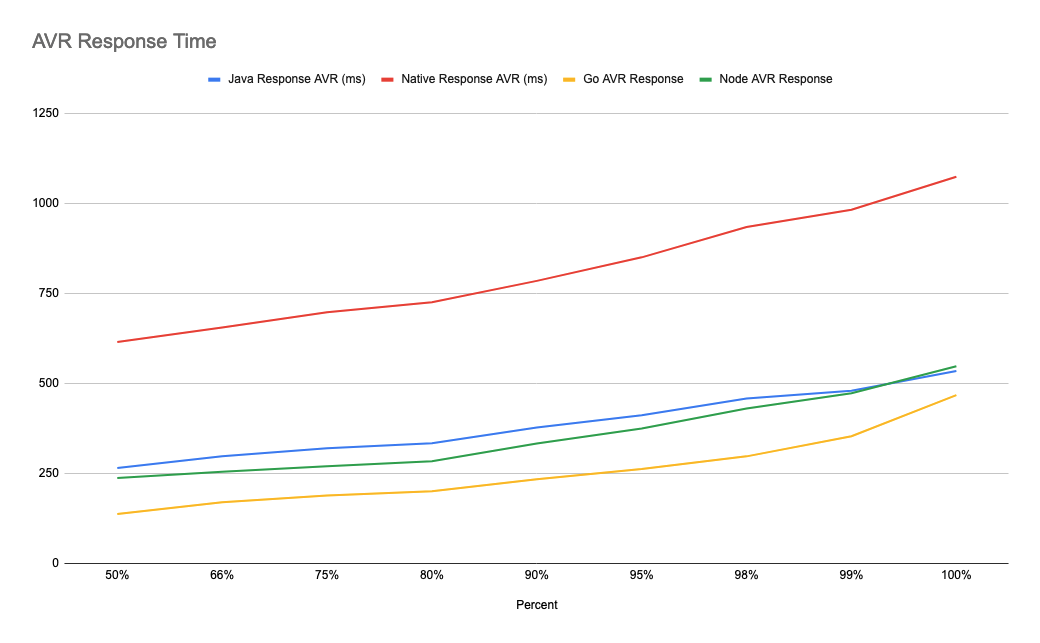
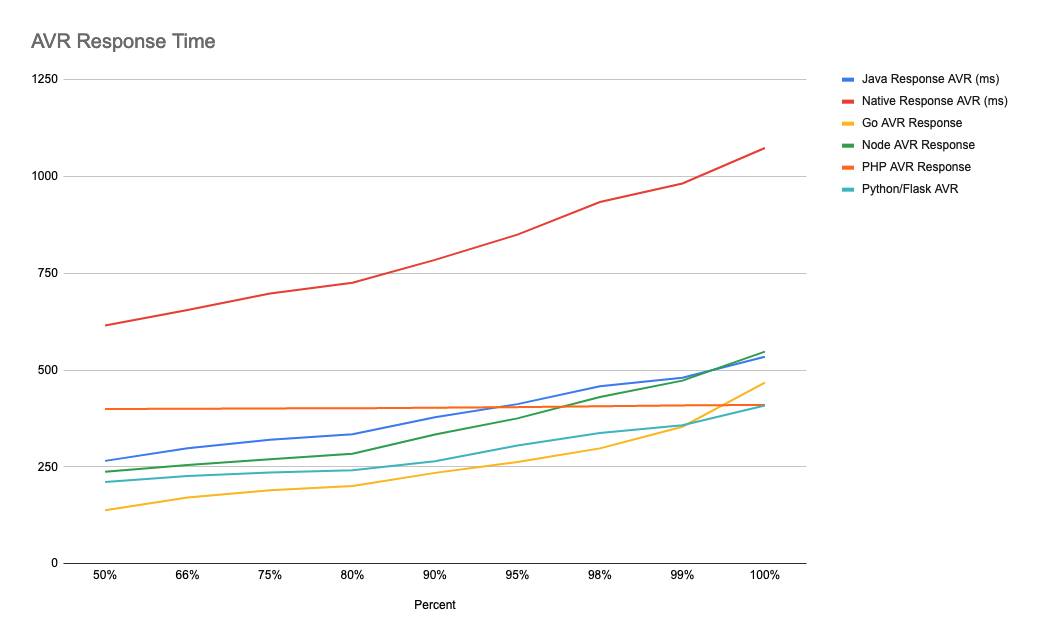
Add php and python results.

diff --git a/project-webflux/README.md b/project-webflux/README.md
@@ -69,18 +69,18 @@ for i in {1..100}; do ab -n 500 -c 20 "http://localhost:8080/city" ; sleep 1; do
 ```
 
 ### The Average Response Times
-Java, Native compiled Java and Go application results.
-| Percent | Java Response AVR (ms) | Native Response AVR (ms) | Go AVR Response | Node AVR Response | Micronaut AVR Response | Micronaut Native AVR Response |
-| ------- | ---------------------- | ------------------------ | --------------- | ----------------- | ---------------------- | ----------------------------- |
-| 50%     | 265.75                 | 615.5                    | 138.25          | 237.75            | 540.75                 | 938                           |
-| 66%     | 298.25                 | 655.25                   | 171             | 255.25            | 738.5                  | 1269.5                        |
-| 75%     | 320.5                  | 697.75                   | 189.75          | 270.25            | 865.75                 | 1537.75                       |
-| 80%     | 334.25                 | 725.5                    | 201             | 284.25            | 962.75                 | 1739.25                       |
-| 90%     | 378.25                 | 784.75                   | 234.75          | 333.75            | 1344.25                | 2557                          |
-| 95%     | 412.25                 | 850                      | 262.75          | 375.5             | 1676.75                | 3714.25                       |
-| 98%     | 458.25                 | 934                      | 298             | 430.75            | 2023                   | 6578.75                       |
-| 99%     | 480.25                 | 982                      | 354             | 473               | 2168.5                 | 8616.75                       |
-| 100%    | 534.5                  | 1073.5                   | 467.75          | 547.75            | 2398                   | 8441.75                       |
+Java, Native compiled Java and other results.
+| Percent | Java Response AVR (ms) | Native Response AVR (ms) | Go AVR Response | Node AVR Response | Micronaut AVR Response | Micronaut Native AVR Response | PHP AVR Response | Python/Flask AVR |
+| ------- | ---------------------- | ------------------------ | --------------- | ----------------- | ---------------------- | ----------------------------- | ---------------- | ---------------- |
+| 50%     | 265.75                 | 615.5                    | 138.25          | 237.75            | 540.75                 | 938                           | 399.75           | 211.5            |
+| 66%     | 298.25                 | 655.25                   | 171             | 255.25            | 738.5                  | 1269.5                        | 400.25           | 226.75           |
+| 75%     | 320.5                  | 697.75                   | 189.75          | 270.25            | 865.75                 | 1537.75                       | 401.25           | 235.75           |
+| 80%     | 334.25                 | 725.5                    | 201             | 284.25            | 962.75                 | 1739.25                       | 401.5            | 241.5            |
+| 90%     | 378.25                 | 784.75                   | 234.75          | 333.75            | 1344.25                | 2557                          | 403              | 264.75           |
+| 95%     | 412.25                 | 850                      | 262.75          | 375.5             | 1676.75                | 3714.25                       | 404.5            | 305.5            |
+| 98%     | 458.25                 | 934                      | 298             | 430.75            | 2023                   | 6578.75                       | 406.75           | 337.5            |
+| 99%     | 480.25                 | 982                      | 354             | 473               | 2168.5                 | 8616.75                       | 409              | 358              |
+| 100%    | 534.5                  | 1073.5                   | 467.75          | 547.75            | 2398                   | 8441.75                       | 410.25           | 408.5            |
 
 
 
@@ -105,70 +105,70 @@ These values are of 16GB of memory, therefore;
 * 5 percent approximately equals to **820MB** (Micronaut Java)
 * 4 percent approximately equals to **655MB** (Micronaut Native)
 
-| Java Memory % | Native Memory % | GO Memory % | Node Memory % | Micronaut % | Micronaut Native % |
-| ------------- | --------------- | ----------- | ------------- | ----------- | ------------------ |
-| 5.37          | 3.39            | 0.21        | 0.5           | 4.9         | 1.78               |
-| 5.39          | 3.56            | 0.22        | 0.56          | 4.9         | 2.8                |
-| 5.4           | 3.76            | 0.23        | 0.56          | 4.9         | 2.88               |
-| 5.4           | 3.92            | 0.23        | 0.56          | 4.9         | 2.92               |
-| 5.41          | 4.16            | 0.23        | 0.57          | 4.92        | 2.96               |
-| 5.41          | 4.32            | 0.23        | 0.57          | 4.92        | 3                  |
-| 5.42          | 4.49            | 0.24        | 0.53          | 4.93        | 3.08               |
-| 5.43          | 4.5             | 0.24        | 0.6           | 4.94        | 3.14               |
-| 5.44          | 4.54            | 0.24        | 0.51          | 4.94        | 3.19               |
-| 5.44          | 4.5             | 0.24        | 0.56          | 4.94        | 3.28               |
-| 5.44          | 4.54            | 0.24        | 0.59          | 4.94        | 3.33               |
-| 5.45          | 4.5             | 0.24        | 0.57          | 4.95        | 3.37               |
-| 5.45          | 4.54            | 0.24        | 0.6           | 4.95        | 3.41               |
-| 5.46          | 4.5             | 0.24        | 0.56          | 4.95        | 3.52               |
-| 5.46          | 4.53            | 0.24        | 0.64          | 4.95        | 3.56               |
-| 5.47          | 4.48            | 0.24        | 0.58          | 4.96        | 3.59               |
-| 5.48          | 4.49            | 0.24        | 0.55          | 4.96        | 3.68               |
-| 5.48          | 4.5             | 0.24        | 0.57          | 4.96        | 3.73               |
-| 5.48          | 4.47            | 0.24        | 0.58          | 4.96        | 3.78               |
-| 5.48          | 4.51            | 0.24        | 0.64          | 4.96        | 3.87               |
-| 5.49          | 4.54            | 0.24        | 0.58          | 4.96        | 3.91               |
-| 5.51          | 4.51            | 0.24        | 0.48          | 4.97        | 3.96               |
-| 5.51          | 4.55            | 0.24        | 0.53          | 4.97        | 4                  |
-| 5.52          | 4.5             | 0.24        | 0.56          | 4.97        | 4.11               |
-| 5.52          | 4.54            | 0.24        | 0.53          | 4.97        | 4.14               |
-| 5.52          | 4.5             | 0.24        | 0.56          | 4.98        | 4.19               |
-| 5.52          | 4.53            | 0.24        | 0.57          | 4.98        | 4.28               |
-| 5.53          | 4.49            | 0.24        | 0.54          | 4.98        | 4.32               |
-| 5.53          | 4.53            | 0.24        | 0.56          | 4.98        | 4.33               |
-| 5.55          | 4.49            | 0.24        | 0.68          | 4.98        | 4.35               |
-| 5.57          | 4.52            | 0.24        | 0.6           | 4.99        | 4.36               |
-| 5.57          | 4.49            | 0.24        | 0.57          | 4.99        | 4.36               |
-| 5.59          | 4.55            | 0.24        | 0.51          | 4.99        | 4.36               |
-| 5.59          | 4.51            | 0.24        | 0.56          | 4.99        | 4.36               |
-| 5.59          | 4.55            | 0.24        | 0.63          | 4.99        | 4.36               |
-| 5.6           | 4.51            | 0.24        | 0.53          | 4.99        | 4.36               |
-| 5.6           | 4.55            | 0.24        | 0.57          | 4.99        | 4.36               |
-| 5.6           | 4.51            | 0.24        | 0.56          | 4.99        | 4.36               |
-| 5.6           | 4.54            | 0.24        | 0.58          | 4.99        | 4.36               |
-| 5.6           | 4.49            | 0.25        | 0.61          | 4.99        | 4.36               |
-| 5.61          | 4.54            | 0.25        | 0.61          | 4.99        | 4.36               |
-| 5.61          | 4.5             | 0.25        | 0.56          | 4.99        | 4.34               |
-| 5.61          | 4.53            | 0.25        | 0.53          | 5.01        | 4.36               |
-| 5.61          | 4.49            | 0.25        | 0.58          | 5.01        | 4.36               |
-| 5.61          | 4.53            | 0.25        | 0.54          | 5.01        | 4.36               |
-| 5.61          | 4.48            | 0.25        | 0.57          | 5.01        | 4.36               |
-| 5.63          | 4.51            | 0.25        | 0.59          | 5.01        | 4.36               |
-| 5.63          | 4.48            | 0.25        | 0.6           | 5.01        | 4.36               |
-| 5.63          | 4.52            | 0.25        | 0.67          | 5.02        | 4.35               |
-| 5.63          | 4.54            | 0.25        | 0.57          | 5.02        | 4.35               |
-| 5.64          | 4.54            | 0.25        | 0.5           | 5.02        | 4.35               |
-| 5.64          | 4.51            | 0.25        | 0.5           | 5.02        | 4.35               |
-| 5.64          | 4.54            | 0.25        | 0.5           | 5.02        | 4.35               |
-| 5.65          | 4.5             | 0.25        | 0.25          | 5.04        | 4.35               |
-| 5.65          | 4.53            | 0.25        | 0.24          | 5.04        | 4.35               |
-| 5.65          | 4.5             | 0.25        | 0.57          | 5.04        | 4.35               |
-| 5.65          | 4.52            | 0.25        | 0.5           | 5.04        | 4.35               |
-| 5.65          | 4.48            | 0.25        | 0.5           | 5.04        | 4.35               |
-| 5.65          | 4.52            | 0.25        | 0.5           | 5.04        | 4.35               |
-| 5.65          | 4.48            | 0.25        | 0.25          | 5.04        | 4.32               |
-| 5.65          | 4.52            | 0.25        | 0.53          | 5.04        | 4.35               |
-| 5.65          | 4.48            | 0.25        | 0.58          | 5.05        | 4.35               |
+| Java Memory % | Native Memory % | GO Memory % | Node Memory % | Micronaut % | Micronaut Native % | PHP % | Python/Flask % |
+| ------------- | --------------- | ----------- | ------------- | ----------- | ------------------ | ----- | -------------- |
+| 5.37          | 3.39            | 0.21        | 0.5           | 4.9         | 1.78               | 0.09  | 0.33           |
+| 5.39          | 3.56            | 0.22        | 0.56          | 4.9         | 2.8                | 0.07  | 0.33           |
+| 5.4           | 3.76            | 0.23        | 0.56          | 4.9         | 2.88               | 0.08  | 0.33           |
+| 5.4           | 3.92            | 0.23        | 0.56          | 4.9         | 2.92               | 0.1   | 0.33           |
+| 5.41          | 4.16            | 0.23        | 0.57          | 4.92        | 2.96               | 0.07  | 0.34           |
+| 5.41          | 4.32            | 0.23        | 0.57          | 4.92        | 3                  | 0.07  | 0.34           |
+| 5.42          | 4.49            | 0.24        | 0.53          | 4.93        | 3.08               | 0.09  | 0.34           |
+| 5.43          | 4.5             | 0.24        | 0.6           | 4.94        | 3.14               | 0.08  | 0.33           |
+| 5.44          | 4.54            | 0.24        | 0.51          | 4.94        | 3.19               | 0.1   | 0.33           |
+| 5.44          | 4.5             | 0.24        | 0.56          | 4.94        | 3.28               | 0.07  | 0.33           |
+| 5.44          | 4.54            | 0.24        | 0.59          | 4.94        | 3.33               | 0.07  | 0.33           |
+| 5.45          | 4.5             | 0.24        | 0.57          | 4.95        | 3.37               | 0.07  | 0.33           |
+| 5.45          | 4.54            | 0.24        | 0.6           | 4.95        | 3.41               | 0.07  | 0.36           |
+| 5.46          | 4.5             | 0.24        | 0.56          | 4.95        | 3.52               | 0.07  | 0.33           |
+| 5.46          | 4.53            | 0.24        | 0.64          | 4.95        | 3.56               | 0.1   | 0.33           |
+| 5.47          | 4.48            | 0.24        | 0.58          | 4.96        | 3.59               | 0.1   | 0.34           |
+| 5.48          | 4.49            | 0.24        | 0.55          | 4.96        | 3.68               | 0.08  | 0.34           |
+| 5.48          | 4.5             | 0.24        | 0.57          | 4.96        | 3.73               | 0.1   | 0.33           |
+| 5.48          | 4.47            | 0.24        | 0.58          | 4.96        | 3.78               | 0.09  | 0.32           |
+| 5.48          | 4.51            | 0.24        | 0.64          | 4.96        | 3.87               | 0.1   | 0.33           |
+| 5.49          | 4.54            | 0.24        | 0.58          | 4.96        | 3.91               | 0.1   | 0.33           |
+| 5.51          | 4.51            | 0.24        | 0.48          | 4.97        | 3.96               | 0.07  | 0.34           |
+| 5.51          | 4.55            | 0.24        | 0.53          | 4.97        | 4                  | 0.07  | 0.33           |
+| 5.52          | 4.5             | 0.24        | 0.56          | 4.97        | 4.11               | 0.07  | 0.33           |
+| 5.52          | 4.54            | 0.24        | 0.53          | 4.97        | 4.14               | 0.07  | 0.33           |
+| 5.52          | 4.5             | 0.24        | 0.56          | 4.98        | 4.19               | 0.07  | 0.34           |
+| 5.52          | 4.53            | 0.24        | 0.57          | 4.98        | 4.28               | 0.07  | 0.34           |
+| 5.53          | 4.49            | 0.24        | 0.54          | 4.98        | 4.32               | 0.07  | 0.34           |
+| 5.53          | 4.53            | 0.24        | 0.56          | 4.98        | 4.33               | 0.07  | 0.33           |
+| 5.55          | 4.49            | 0.24        | 0.68          | 4.98        | 4.35               | 0.07  | 0.34           |
+| 5.57          | 4.52            | 0.24        | 0.6           | 4.99        | 4.36               | 0.07  | 0.33           |
+| 5.57          | 4.49            | 0.24        | 0.57          | 4.99        | 4.36               | 0.1   | 0.35           |
+| 5.59          | 4.55            | 0.24        | 0.51          | 4.99        | 4.36               | 0.07  | 0.34           |
+| 5.59          | 4.51            | 0.24        | 0.56          | 4.99        | 4.36               | 0.07  | 0.34           |
+| 5.59          | 4.55            | 0.24        | 0.63          | 4.99        | 4.36               | 0.07  | 0.36           |
+| 5.6           | 4.51            | 0.24        | 0.53          | 4.99        | 4.36               | 0.07  | 0.34           |
+| 5.6           | 4.55            | 0.24        | 0.57          | 4.99        | 4.36               | 0.08  | 0.33           |
+| 5.6           | 4.51            | 0.24        | 0.56          | 4.99        | 4.36               | 0.1   | 0.36           |
+| 5.6           | 4.54            | 0.24        | 0.58          | 4.99        | 4.36               | 0.1   | 0.34           |
+| 5.6           | 4.49            | 0.25        | 0.61          | 4.99        | 4.36               | 0.1   | 0.34           |
+| 5.61          | 4.54            | 0.25        | 0.61          | 4.99        | 4.36               | 0.1   | 0.34           |
+| 5.61          | 4.5             | 0.25        | 0.56          | 4.99        | 4.34               | 0.07  | 0.34           |
+| 5.61          | 4.53            | 0.25        | 0.53          | 5.01        | 4.36               | 0.08  | 0.34           |
+| 5.61          | 4.49            | 0.25        | 0.58          | 5.01        | 4.36               | 0.07  | 0.34           |
+| 5.61          | 4.53            | 0.25        | 0.54          | 5.01        | 4.36               | 0.09  | 0.33           |
+| 5.61          | 4.48            | 0.25        | 0.57          | 5.01        | 4.36               | 0.1   | 0.34           |
+| 5.63          | 4.51            | 0.25        | 0.59          | 5.01        | 4.36               | 0.1   | 0.37           |
+| 5.63          | 4.48            | 0.25        | 0.6           | 5.01        | 4.36               | 0.07  | 0.33           |
+| 5.63          | 4.52            | 0.25        | 0.67          | 5.02        | 4.35               | 0.07  | 0.33           |
+| 5.63          | 4.54            | 0.25        | 0.57          | 5.02        | 4.35               | 0.09  | 0.34           |
+| 5.64          | 4.54            | 0.25        | 0.5           | 5.02        | 4.35               | 0.08  | 0.36           |
+| 5.64          | 4.51            | 0.25        | 0.5           | 5.02        | 4.35               | 0.07  | 0.36           |
+| 5.64          | 4.54            | 0.25        | 0.5           | 5.02        | 4.35               | 0.07  | 0.35           |
+| 5.65          | 4.5             | 0.25        | 0.25          | 5.04        | 4.35               | 0.08  | 0.34           |
+| 5.65          | 4.53            | 0.25        | 0.24          | 5.04        | 4.35               | 0.07  | 0.33           |
+| 5.65          | 4.5             | 0.25        | 0.57          | 5.04        | 4.35               | 0.09  | 0.34           |
+| 5.65          | 4.52            | 0.25        | 0.5           | 5.04        | 4.35               | 0.07  | 0.35           |
+| 5.65          | 4.48            | 0.25        | 0.5           | 5.04        | 4.35               | 0.07  | 0.36           |
+| 5.65          | 4.52            | 0.25        | 0.5           | 5.04        | 4.35               | 0.07  | 0.34           |
+| 5.65          | 4.48            | 0.25        | 0.25          | 5.04        | 4.32               | 0.07  | 0.33           |
+| 5.65          | 4.52            | 0.25        | 0.53          | 5.04        | 4.35               | 0.1   | 0.33           |
+| 5.65          | 4.48            | 0.25        | 0.58          | 5.05        | 4.35               | 0.09  | 0.34           |
 
 ![Memory Percentages](images/memory-percentages.png "Memory Percentages")
 
